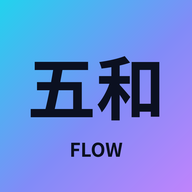
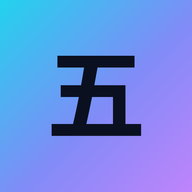
表紙の名前を「五和業務ツール」（小さく ITSUWA OPS HUB）に変更。アイコンもマークと同じ「五」に ver 2026-11-17j
Claude-Session: https://claude.ai/code/session_0138wtp8qPG2fSTtUnVZpYRG

Changed region(s): [[0.1562, 0.2812, 0.8438, 0.8438]]

diff --git a/index.html b/index.html
@@ -3,7 +3,7 @@
 <head>
 <meta charset="UTF-8">
 <meta name="viewport" content="width=device-width, initial-scale=1, viewport-fit=cover">
-<title>ITSUWA FLOW｜五和 業務ツール集</title>
+<title>五和業務ツール｜ITSUWA OPS HUB</title>
 <link rel="manifest" href="manifest.json">
 <meta name="theme-color" content="#070b14">
 <link rel="icon" href="icon-192.png">
@@ -271,28 +271,28 @@
 <script>
 /* ================= 表示ことば（4言語） ================= */
 var T = {
-  ja:{verChk:'ver確認', lpHint:'ツールを長押しで移動・コピー', move:'移動', copy:'コピー', removeHere:'この工程から外す', placed:'配置済み', cancel:'やめる', here:'今の工程', moveNote:'移す先の工程を選んでください', copyNote:'ツールを置く工程を選んでください（元の工程にも残ります）', addNote:'置く工程を選んでください', movedT:'へ移動しました', copiedT:'にも置きました', removedT:'から外しました', customNote:'この端末だけ並びを変えています。全タブレットに広げるときは書き出して GitHub へ。', exportBtn:'tools.js を書き出す', resetBtn:'標準に戻す', exportedT:'tools.js を書き出しました', resetT:'標準の並びに戻しました', title:'ITSUWA FLOW', titleSub:'五和 業務ツール集', map:'マップ', list:'一覧', mapTtl:'物と情報の流れ図', mapSub:'エリアを押すとツールが開きます',
+  ja:{verChk:'ver確認', lpHint:'ツールを長押しで移動・コピー', move:'移動', copy:'コピー', removeHere:'この工程から外す', placed:'配置済み', cancel:'やめる', here:'今の工程', moveNote:'移す先の工程を選んでください', copyNote:'ツールを置く工程を選んでください（元の工程にも残ります）', addNote:'置く工程を選んでください', movedT:'へ移動しました', copiedT:'にも置きました', removedT:'から外しました', customNote:'この端末だけ並びを変えています。全タブレットに広げるときは書き出して GitHub へ。', exportBtn:'tools.js を書き出す', resetBtn:'標準に戻す', exportedT:'tools.js を書き出しました', resetT:'標準の並びに戻しました', title:'五和業務ツール', titleSub:'ITSUWA OPS HUB', map:'マップ', list:'一覧', mapTtl:'物と情報の流れ図', mapSub:'エリアを押すとツールが開きます',
       mono:'物の流れ', info:'情報の流れ', tools:'ツール', none:'準備中',
       emptyArea:'このエリアのツールは準備中です', other:'その他',
       on:'オンライン', off:'オフライン', newVer:'新しい版があります', update:'更新する',
       updBadge:'更新', saved:'保存済み', unsaved:'未保存', ready:'オフライン準備',
       check:'最新か確認', checking:'確認中…', latest:'最新です', needNet:'Wi-Fiにつないでから確認してください',
       from:'← ', to:'→ '},
-  id:{verChk:'Cek versi', lpHint:'Tekan lama alat untuk pindah/salin', move:'Pindah', copy:'Salin', removeHere:'Hapus dari area ini', placed:'Sudah ada', cancel:'Batal', here:'Area ini', moveNote:'Pilih area tujuan', copyNote:'Pilih area tambahan (tetap ada di area asal)', addNote:'Pilih area', movedT:' — dipindah', copiedT:' — disalin', removedT:' — dihapus', customNote:'Susunan hanya diubah di perangkat ini.', exportBtn:'Ekspor tools.js', resetBtn:'Kembali ke standar', exportedT:'tools.js diekspor', resetT:'Kembali ke standar', title:'ITSUWA FLOW', titleSub:'Itsuwa Ops Hub', map:'Peta', list:'Daftar', mapTtl:'Aliran Barang & Informasi', mapSub:'Tekan area untuk membuka alat',
+  id:{verChk:'Cek versi', lpHint:'Tekan lama alat untuk pindah/salin', move:'Pindah', copy:'Salin', removeHere:'Hapus dari area ini', placed:'Sudah ada', cancel:'Batal', here:'Area ini', moveNote:'Pilih area tujuan', copyNote:'Pilih area tambahan (tetap ada di area asal)', addNote:'Pilih area', movedT:' — dipindah', copiedT:' — disalin', removedT:' — dihapus', customNote:'Susunan hanya diubah di perangkat ini.', exportBtn:'Ekspor tools.js', resetBtn:'Kembali ke standar', exportedT:'tools.js diekspor', resetT:'Kembali ke standar', title:'五和業務ツール', titleSub:'ITSUWA OPS HUB', map:'Peta', list:'Daftar', mapTtl:'Aliran Barang & Informasi', mapSub:'Tekan area untuk membuka alat',
       mono:'Aliran barang', info:'Aliran informasi', tools:'alat', none:'Segera',
       emptyArea:'Alat untuk area ini sedang disiapkan', other:'Lainnya',
       on:'Online', off:'Offline', newVer:'Ada versi baru', update:'Perbarui',
       updBadge:'Baru', saved:'Tersimpan', unsaved:'Belum tersimpan', ready:'Siap offline',
       check:'Cek versi terbaru', checking:'Mengecek…', latest:'Sudah terbaru', needNet:'Sambungkan Wi-Fi dulu',
       from:'← ', to:'→ '},
-  tl:{verChk:'Tsek bersyon', lpHint:'Pindutin nang matagal para ilipat/kopyahin', move:'Ilipat', copy:'Kopyahin', removeHere:'Alisin sa area na ito', placed:'Nandito na', cancel:'Kanselahin', here:'Area na ito', moveNote:'Piliin ang lilipatang area', copyNote:'Piliin ang dagdag na area (mananatili sa dati)', addNote:'Piliin ang area', movedT:' — nailipat', copiedT:' — nakopya', removedT:' — naalis', customNote:'Sa device na ito lang binago ang ayos.', exportBtn:'I-export ang tools.js', resetBtn:'Ibalik sa standard', exportedT:'Na-export ang tools.js', resetT:'Naibalik sa standard', title:'ITSUWA FLOW', titleSub:'Itsuwa Ops Hub', map:'Mapa', list:'Listahan', mapTtl:'Daloy ng Piyesa at Impormasyon', mapSub:'Pindutin ang area para buksan ang tool',
+  tl:{verChk:'Tsek bersyon', lpHint:'Pindutin nang matagal para ilipat/kopyahin', move:'Ilipat', copy:'Kopyahin', removeHere:'Alisin sa area na ito', placed:'Nandito na', cancel:'Kanselahin', here:'Area na ito', moveNote:'Piliin ang lilipatang area', copyNote:'Piliin ang dagdag na area (mananatili sa dati)', addNote:'Piliin ang area', movedT:' — nailipat', copiedT:' — nakopya', removedT:' — naalis', customNote:'Sa device na ito lang binago ang ayos.', exportBtn:'I-export ang tools.js', resetBtn:'Ibalik sa standard', exportedT:'Na-export ang tools.js', resetT:'Naibalik sa standard', title:'五和業務ツール', titleSub:'ITSUWA OPS HUB', map:'Mapa', list:'Listahan', mapTtl:'Daloy ng Piyesa at Impormasyon', mapSub:'Pindutin ang area para buksan ang tool',
       mono:'Daloy ng piyesa', info:'Daloy ng impormasyon', tools:'tool', none:'Darating',
       emptyArea:'Inihahanda pa ang tool para sa area na ito', other:'Iba pa',
       on:'Online', off:'Offline', newVer:'May bagong bersyon', update:'I-update',
       updBadge:'Bago', saved:'Naka-save', unsaved:'Hindi naka-save', ready:'Handa offline',
       check:'Tingnan kung bago', checking:'Tinitingnan…', latest:'Pinakabago na', needNet:'Kumonekta muna sa Wi-Fi',
       from:'← ', to:'→ '},
-  en:{verChk:'Version check', lpHint:'Long-press a tool to move or copy', move:'Move', copy:'Copy', removeHere:'Remove from this area', placed:'Already here', cancel:'Cancel', here:'This area', moveNote:'Choose the area to move to', copyNote:'Choose another area (it stays in the original too)', addNote:'Choose an area', movedT:' — moved', copiedT:' — copied', removedT:' — removed', customNote:'Layout changed on this device only.', exportBtn:'Export tools.js', resetBtn:'Reset to standard', exportedT:'tools.js exported', resetT:'Reset to standard', title:'ITSUWA FLOW', titleSub:'Itsuwa Ops Hub', map:'Map', list:'List', mapTtl:'Material & Information Flow', mapSub:'Tap an area to open its tools',
+  en:{verChk:'Version check', lpHint:'Long-press a tool to move or copy', move:'Move', copy:'Copy', removeHere:'Remove from this area', placed:'Already here', cancel:'Cancel', here:'This area', moveNote:'Choose the area to move to', copyNote:'Choose another area (it stays in the original too)', addNote:'Choose an area', movedT:' — moved', copiedT:' — copied', removedT:' — removed', customNote:'Layout changed on this device only.', exportBtn:'Export tools.js', resetBtn:'Reset to standard', exportedT:'tools.js exported', resetT:'Reset to standard', title:'五和業務ツール', titleSub:'ITSUWA OPS HUB', map:'Map', list:'List', mapTtl:'Material & Information Flow', mapSub:'Tap an area to open its tools',
       mono:'Material flow', info:'Information flow', tools:'tools', none:'Soon',
       emptyArea:'Tools for this area are coming soon', other:'Other',
       on:'Online', off:'Offline', newVer:'A new version is available', update:'Update',
@@ -455,7 +455,7 @@ function setArea(id){
 /* ================= 画面全体 ================= */
 function render(){
   var t=T[lang];
-  document.title=t.title+'｜'+T.ja.titleSub;
+  document.title=t.title+'｜'+t.titleSub;
   document.getElementById('title').textContent=t.title;
   document.getElementById('titleSub').textContent=t.titleSub;
   document.getElementById('siteVer').textContent='ver '+SITE_VER;

diff --git a/sw.js b/sw.js
@@ -1,5 +1,5 @@
 /* =========================================================
-   ITSUWA FLOW（五和 業務ツール集） ― オフライン保存のしくみ（Service Worker）
+   五和業務ツール（ITSUWA OPS HUB） ― オフライン保存のしくみ（Service Worker）
    ふだんは触らなくてOK。tools.js を直せば自動で更新されます。
    ========================================================= */
 importScripts('./tools.js');

diff --git a/tools.js b/tools.js
@@ -9,7 +9,7 @@
      「新しい版があります」と表示されます
    ========================================================= */
 
-var SITE_VER = '2026-11-17i';
+var SITE_VER = '2026-11-17j';
 
 /* GitHub Pages の場所（各ツールのリポジトリはここの下にある） */
 var BASE = 'https://overbridge038-lnk.github.io/';

diff --git a/CLAUDE.md b/CLAUDE.md
@@ -1,6 +1,6 @@
-# gyomu-network（ITSUWA FLOW｜五和 業務ツール集の表紙）
+# gyomu-network（五和業務ツール｜ITSUWA OPS HUB の表紙）
 
-- 表紙の名前は 2026-11-17 に「出荷業務ツール集」から **ITSUWA FLOW**（五和＝イツワ）（下に小さく「五和 業務ツール集」、マークは「五」）に変更（ユーザー決定）
+- 表紙の名前は 2026-11-17 に「出荷業務ツール集」から **五和業務ツール**（下に小さく「ITSUWA OPS HUB」、マークは「五」）に変更（五和＝イツワ。ユーザー決定）
 
 ## このリポジトリについて
 いろいろなツールの**入口をひとつ**にする表紙。物と情報の流れ図に工程ごとのボタンを置き、押すとその工程のツールが開く。
